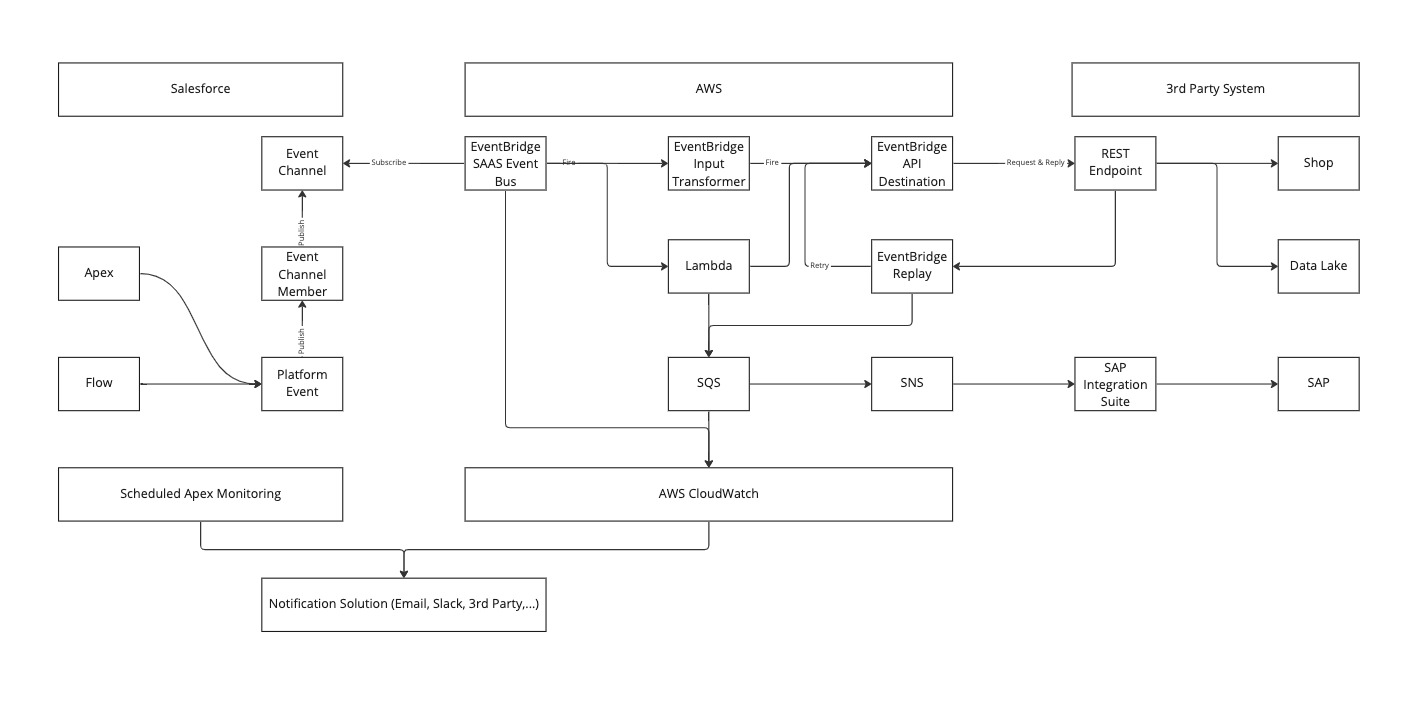
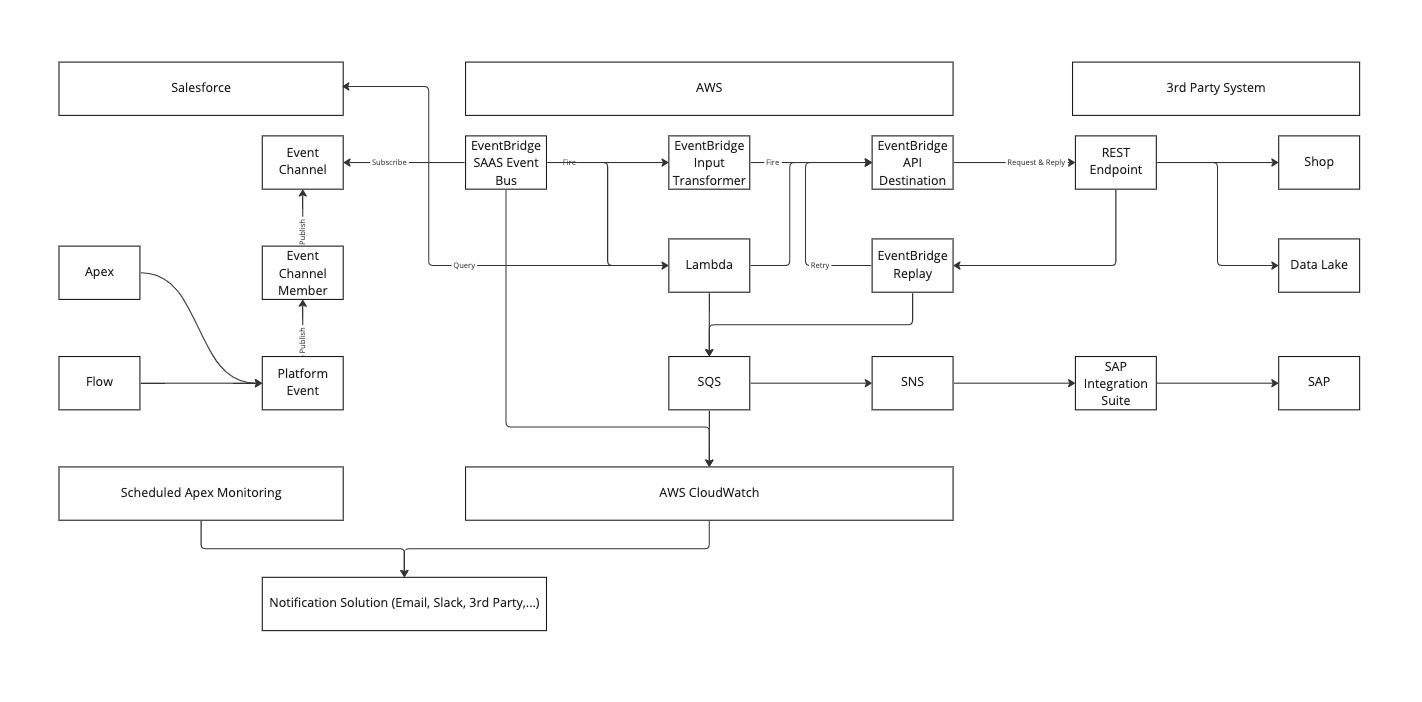
Added mature architectur to Readme

diff --git a/README.md b/README.md
@@ -50,7 +50,7 @@ This is an example use case if e.g. the fields on your object changes or you add
 | Sum                                                                        | ~ 2h   |
 
 
-### AWS Costs - Example calculation
+### AWS Costs - Example calculation (Full Payload)
 
 **Assumption:** 
 - Location: EU-Central
@@ -65,10 +65,32 @@ This is an example use case if e.g. the fields on your object changes or you add
 | AWS EventBridge             | -            | 1.00$ / 1.000.000 (64kb chunks) | 1,2 Mio events | 1,20$         |
 | AWS EventBridge Replay      | -            | 0.12$ / GB                      | 0,768 GB       | 0,09$         |
 | AWS EventBridge Destination | -            | 0.24$ / 1.000.000 (64kb chunks) | 1,2 Mio events | 1,20$         |
-| AWS SQS                     | 1.000.000    | 0.40$ / 1.000.000               | Free tier      | 0,00$         |
+| AWS SQS                     | 1.000.000    | 0.40$ / 1.000.000               | 3k events      | 0,00$         |
 |                             |              |                                 |                |               |
 | Sum                         | -            | -                               | -              | 2,49$         |
 
+
+### AWS Costs - Example calculation (Change Data Capture)
+
+**Assumption:**
+- Change Data Capture = Just the Id and changed fields in event -> Consumer queries the fields by itself
+- Location: EU-Central
+- 300.000 Events per Month (10.000 events/24h * 30 days) = Platform Event limit of smaller orgs
+- Event-message size: 16KB
+- Delivery Rate: 99.9% = 3.000 replays
+- Simple transformation via EventBridge Input Transformer
+- Lambda to fetch data from Salesforce Database (Duration Callout: 5s)
+- SQS as dead-letter queue
+
+| AWS Service                 | Free Service          | Payed Service                 | Quantity        | Monthly Costs |
+|-----------------------------|-----------------------|-------------------------------|-----------------|---------------|
+| AWS EventBridge             | -                     | 1.00$ / mio (64kb chunks)     | 300k events     | 0,30$         |
+| AWS EventBridge Replay      | -                     | 0.12$ / GB                    | 0,048 GB        | 0,01$         |
+| AWS EventBridge Destination | -                     | 0.24$ / mio (64kb chunks)     | 300k events     | 0,30$         |
+| AWS Lambda                  | 1.000.000 - 400k GB/s | 0.20$ / mio - 0.000016$ / GBs | 300k - 234 GB/s | 0,00$         |
+| AWS SQS                     | 1.000.000             | 0.40$ / mio                   | 3k events       | 0,00$         |
+|                             |                       |                               |                 |               |
+| Sum                         | -                     | -                             | -               | 0,61$         |
 
 
 ## More Mature Architecture Approach
@@ -161,9 +183,6 @@ Create a sample platform event via FlowBuilder or you can also send one via API 
 If you added the event bus to CloudWatch, you will see the logfile there.
 ![](assets/img/event_log.png)
 
-## Future Improvements
-- Compare costs for full payload event vs. change event + data retrieve via API
-- I implement a monitoring system for the Salesforce-side of the bus
 
 ## Limitations
 - It just works for me with ChannelTypes = event. Data channel like Change Data Capture should work but didn't for me. Probably we just have to wait for the next update until you can get rid of custom platform events
